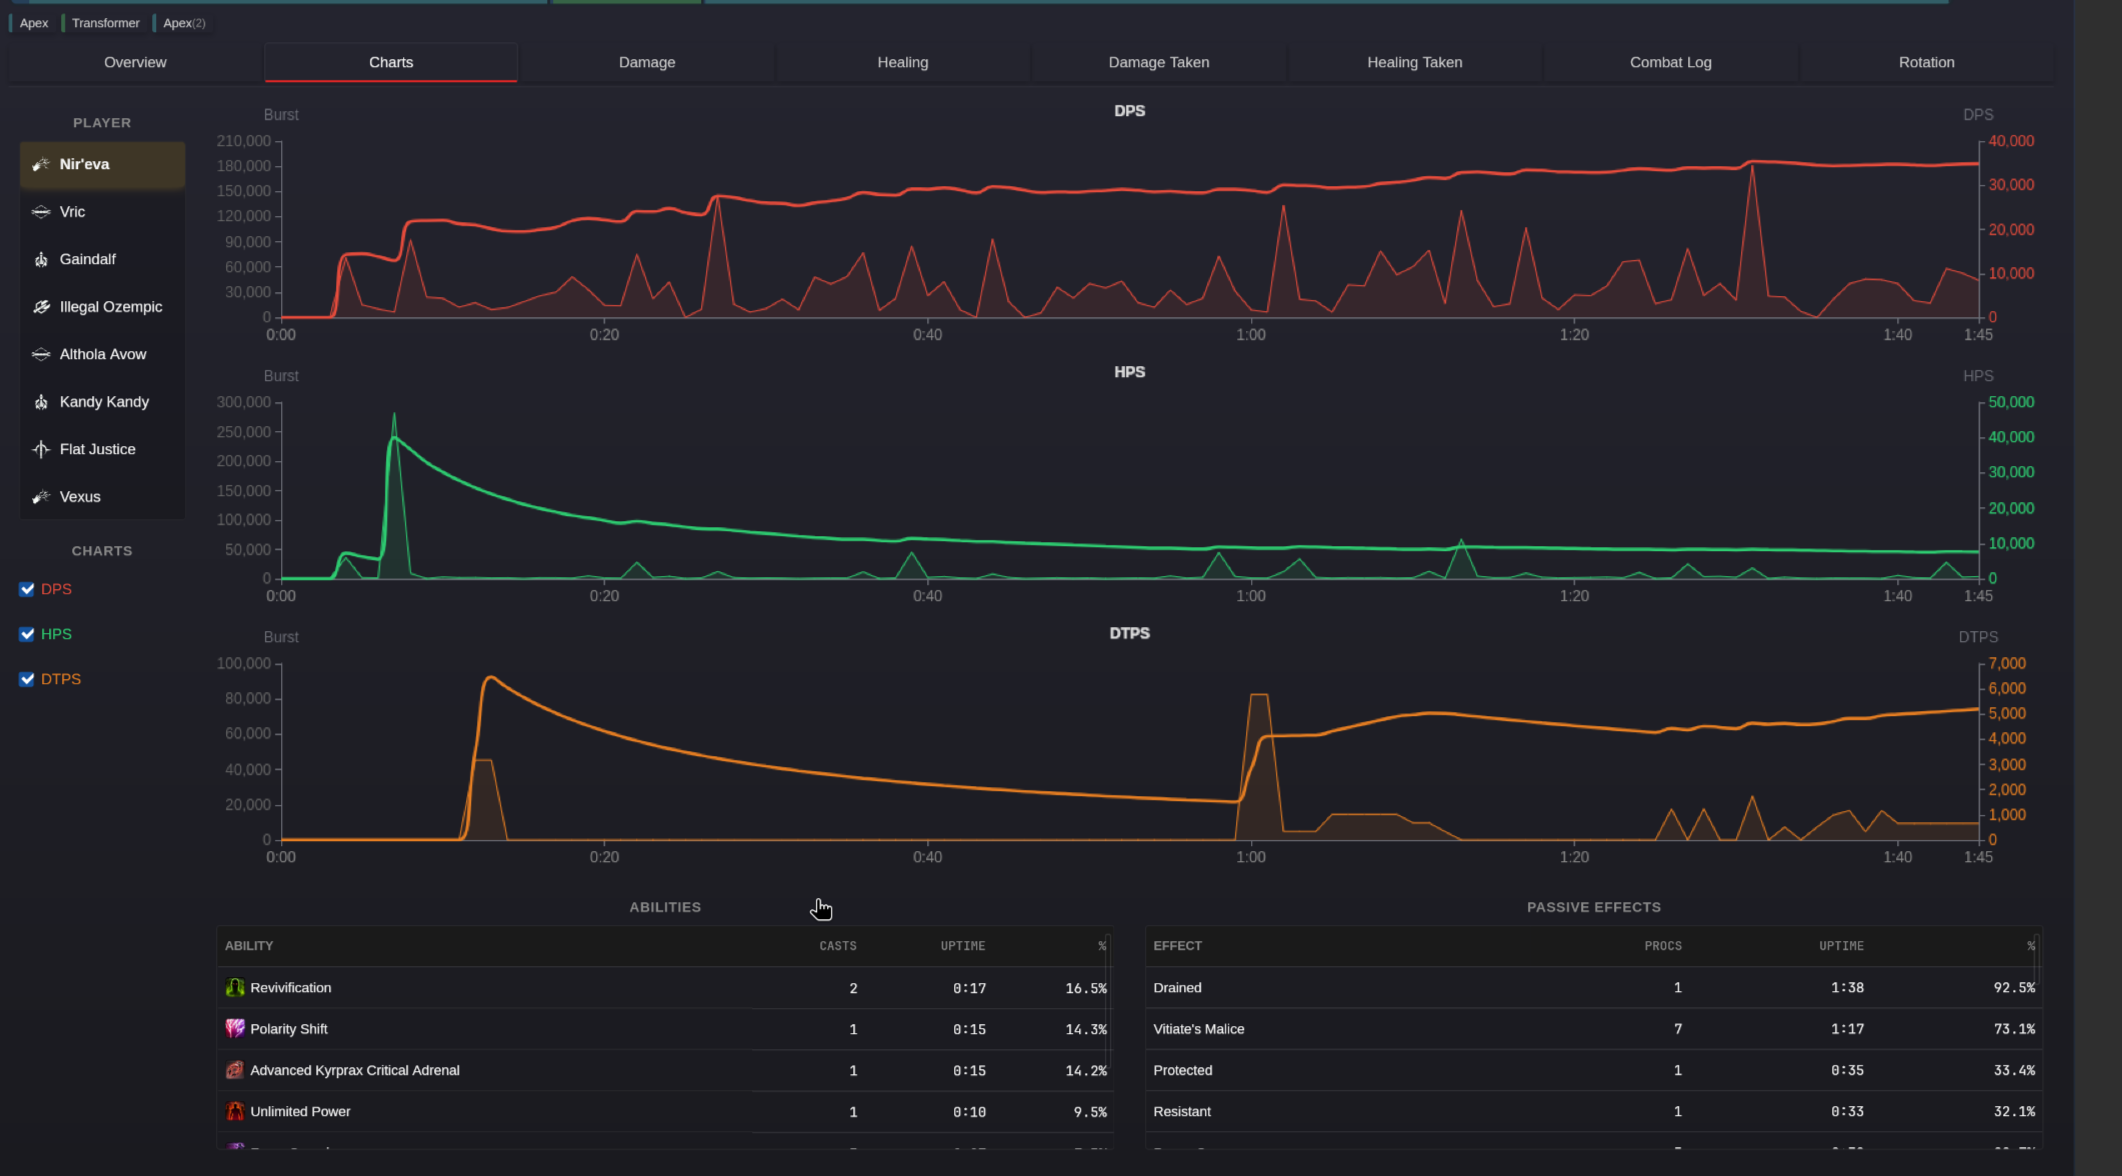
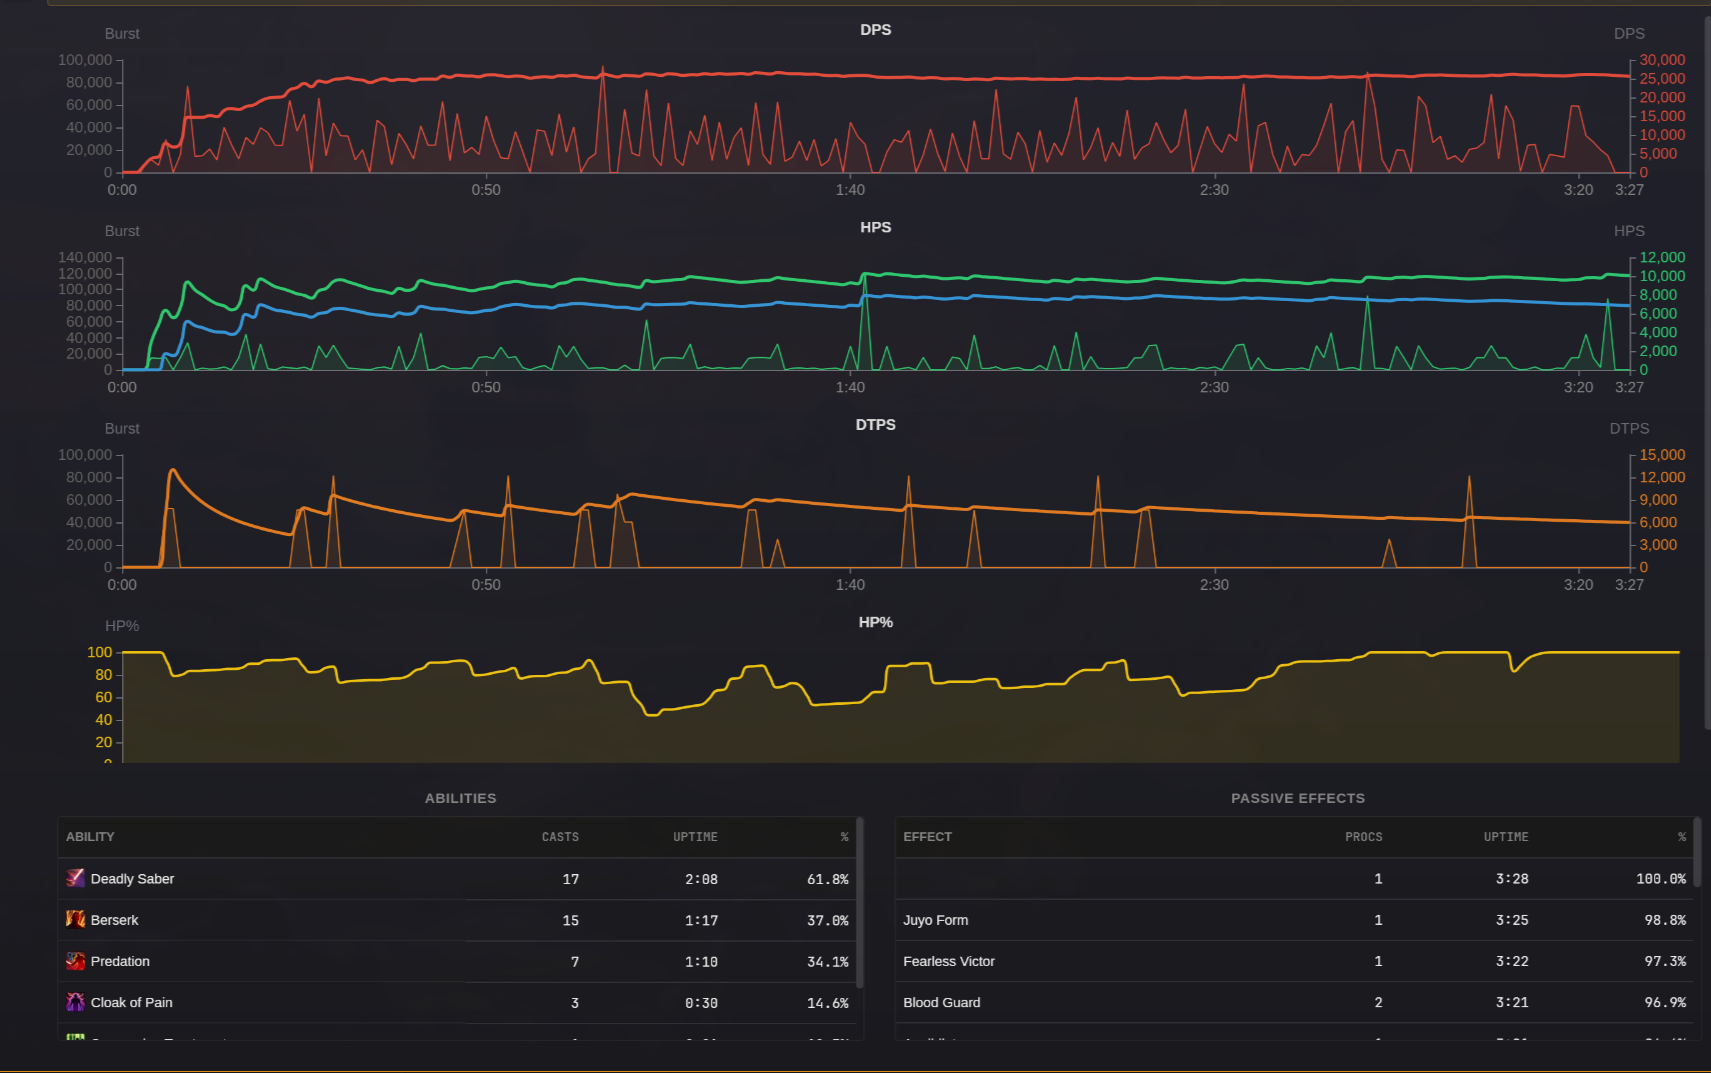
wip on data explorer docs

diff --git a/src/content/docs/features/data-explorer.md b/src/content/docs/features/data-explorer.md
@@ -9,18 +9,21 @@ The Data Explorer is BARAS's post-combat analysis tool. Review past encounters w
 
 Access the Data Explorer from the **Data Explorer** tab in the main application.
 
+### Controls
+
+The data explorer can be expanded to the full window by pressing the icon on the top-right of the tab selector.
+
 ![Data Explorer main view](/screenshots/data-explorer-overview.png)
 
 ---
 
 ## Encounter List
 
-The left sidebar displays all parsed encounters from your combat logs.
+The left sidebar displays all parsed encounters from your combat log. Encounter will appear here
+after combat ends.
 
 - **Bosses Only** - Filter to show only boss encounters
-- Encounters show boss name, attempt number, timestamp, and duration
-- **Checkmark** indicates a successful kill
-- **Red X** indicates a wipe
+- Click the arrow buttons in the to-left corner to hide the encounters sidebar
 
 Click an encounter to load its data in the main panel.
 
@@ -32,11 +35,15 @@ Click an encounter to load its data in the main panel.
 
 The horizontal timeline at the top shows encounter phases. Click a phase to filter the data to that time window.
 
-- Each phase is color-coded and labeled
-- Shows phase duration and transitions
-- Filter analysis to specific phases or the entire fight
-
 ![Phase timeline bar](/screenshots/data-explorer-phase-timeline.png)
+
+Use can filter the timeline by:
+
+- Clicking and dragging the mouse over a segment
+- Clicking on a phase badge
+- Clicking on a phase in the timeline
+- Entering start/end times in the selection box below the timeline
+- Right clicking on a specific line in the combat log and setting it as the start/end time
 
 ---
 
@@ -44,29 +51,23 @@ The horizontal timeline at the top shows encounter phases. Click a phase to filt
 
 ### Overview
 
-Summary table showing all players with key metrics:
+The overview tab serves as a landing page the lets you view raid-wide statistics at a glance.
 
-| Column       | Description                                 |
-| ------------ | ------------------------------------------- |
-| Damage Dealt | Total damage and DPS                        |
-| Threat       | Total threat and TPS                        |
-| Damage Taken | Total damage taken and DTPS                 |
-| Healing      | Total healing, HPS, and effective healing % |
-| Shielding    | Total shielding and SPS                     |
-
-Includes group totals and per-player breakdown charts.
+- A detailed table of common metrics
+- Doughnut charts showing the proportion of Damage/Threat/Healing/Damage Taken each player contributed to the group total
+- A table showing the last logged health value of every NPC that participated in the encounter
 
 ![Overview tab](/screenshots/data-explorer-overview.png)
 
 ### Charts
 
-Visual performance graphs over the encounter duration:
+This page time series charts displaying per-player metrics over the course of the fight. The x-axis
+represents 1-second time intervals. Both burst and per second averages are displayed where applicable.
 
 - **DPS** - Damage per second over time
-- **HPS** - Healing per second over time
+- **HPS** - Healing per second over time. The green line represents raw HPS. The blue line represent EHPS.
 - **DTPS** - Damage taken per second over time
-
-Select players to compare and toggle chart types.
+- **HP%** - the player's health balance over the fight.
 
 ![Charts tab](/screenshots/data-explorer-charts.png)
 
@@ -75,16 +76,14 @@ Also shows:
 - **Abilities** - Cast counts and uptime for each ability
 - **Passive Effects** - Proc counts and uptime for buffs/effects
 
-### Damage
+### Metric Breakdown Tabs
+
+The **Damage**, **Healing**, **Damage Taken**, and **Healing Taken** tabs show
+player/NPC level breakdowns.
 
 ![Damage breakdown tab](/screenshots/data-explorer-damage.png)
 
 Detailed damage breakdown by player, showing:
-
-- Damage by ability
-- Damage by target
-- Critical hit rates
-- Damage types
 
 ### Healing
 
@@ -120,15 +119,3 @@ Raw combat log viewer with filtering options. Search and filter events by:
 - Source/target
 - Ability name
 - Time range
-
----
-
-## Player Selection
-
-Click a player in the sidebar to focus on their individual performance. The analysis tabs will show detailed breakdowns for that player.
-
-Player entries show:
-
-- Class icon
-- Character name
-- Role indicator
